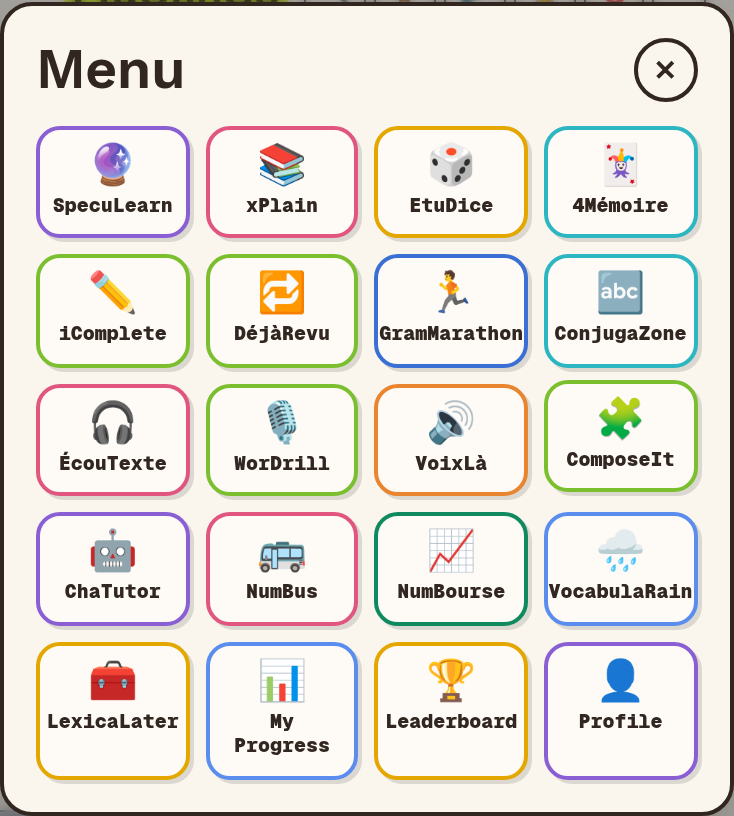
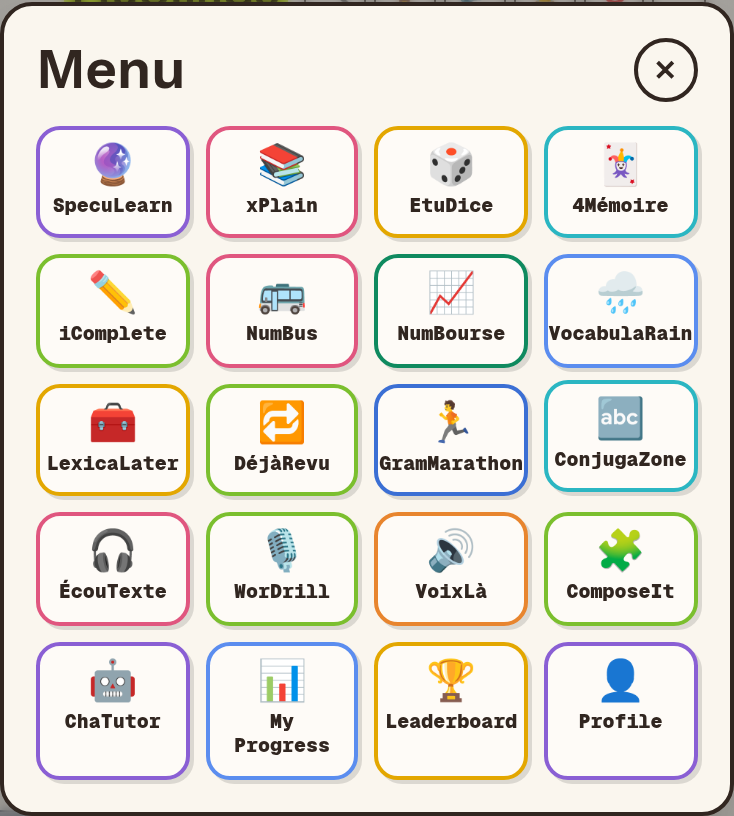
nav: families in Dan's order — Goals · Practice · Play · Review · Skills · User
Dan, 19 Aug: "(Pre-Lesson = Goals), so that means 2a → 2b → 2e → 2c → 2d → 2f."
Play moves up to third, straight after the practice just done; Review and
Skills follow it.

activitiesInFamilyOrder() is now the one way to read the twenty activities in
family order, and the Menu grid uses it, so the grid and any rail cannot drift
apart the way the four hand-kept lists did before 10 Aug.

Claude-Session: https://claude.ai/code/session_01MX3rvBAcFckqMJzJJHU3iB

diff --git a/src/content/activities.ts b/src/content/activities.ts
@@ -51,14 +51,20 @@ export type Family = { key: FamilyKey; name: string; emoji: string; href: string
  *     dice → cards → produce) are now PRACTICE. Same five, same order, a
  *     name that says what you do with them.
  *
- * Order is Dan's 2a–2f: Goals · Practice · Review · Skills · SvPlay · User.
+ * Order is Dan's, 19 Aug — 2a → 2b → 2e → 2c → 2d → 2f, with Pre-Lesson and
+ * Goals confirmed as the same tab:
+ *
+ *   Goals · Practice · SvPlay · Review · Skills · User
+ *
+ * Play sits third, straight after the practice you have just done; the two
+ * heavier families (Review, Skills) follow it.
  */
 export const FAMILIES: Family[] = [
   { key: "goals", name: "FluOlin Goals", emoji: "🎯", href: "/" },
   { key: "practice", name: "FluOlin Practice", emoji: "✏", href: "/activities" },
+  { key: "svplay", name: "FluOlin SvPlay", emoji: "🎮", href: "/games/vocabularain" },
   { key: "review", name: "FluOlin Review", emoji: "🔁", href: "/reviser" },
   { key: "skills", name: "FluOlin Skills", emoji: "💪", href: "/conjugaison" },
-  { key: "svplay", name: "FluOlin SvPlay", emoji: "🎮", href: "/games/vocabularain" },
   { key: "user", name: "FluOlin User", emoji: "👤", href: "/moi" },
 ];
 
@@ -114,6 +120,12 @@ export const ACTIVITIES: Activity[] = [
   { key: "profil", name: "Profile", emoji: "👤", family: "user", href: "/profil", hue: "#8a5fd4", blurb: "Streak, XP, badges, colours." },
 ];
 
+/** Every activity, in FAMILIES order then authored order — what the Menu grid
+ *  and any grouped rail should iterate, so none of them can drift apart. */
+export function activitiesInFamilyOrder(): Activity[] {
+  return FAMILIES.flatMap((f) => ACTIVITIES.filter((a) => a.family === f.key));
+}
+
 /** Everything in one family, in its authored order. */
 export function activitiesIn(family: FamilyKey): Activity[] {
   return ACTIVITIES.filter((a) => a.family === family);
@@ -128,7 +140,7 @@ export function activity(key: string): Activity | undefined {
 /** Only the ones with a gallery/index page, in family order — this is the
  *  flap rail and the HELP grid, and now they cannot disagree. */
 export function navigableActivities(): Activity[] {
-  const order: FamilyKey[] = ["goals", "practice", "review", "skills", "svplay", "user"];
+  const order: FamilyKey[] = ["goals", "practice", "svplay", "review", "skills", "user"];
   return ACTIVITIES.filter((a) => a.href !== null).sort(
     (a, b) => order.indexOf(a.family) - order.indexOf(b.family),
   );

diff --git a/src/components/MenuSplash.tsx b/src/components/MenuSplash.tsx
@@ -11,6 +11,9 @@
  * the answer). The long-form guide still exists at /guide for anyone who
  * wants it.
  *
+ * Tiles run in FAMILIES order — Goals, Practice, Play, Review, Skills, User —
+ * so the grid reads in the same order as the rail.
+ *
  * Exactly twenty tiles, because the registry holds exactly twenty activities
  * — four across by five down on a phone, five across by four down from sm.
  * No group headings: a tile carries its own emoji, name and family colour,
@@ -22,7 +25,7 @@
  * of its twenty would be the thing a learner notices.
  */
 import Link from "next/link";
-import { ACTIVITIES, FAMILIES } from "@/content/activities";
+import { activitiesInFamilyOrder, FAMILIES } from "@/content/activities";
 
 export default function MenuSplash({ onClose }: { onClose: () => void }) {
   const close = () => {
@@ -56,7 +59,7 @@ export default function MenuSplash({ onClose }: { onClose: () => void }) {
         </div>
 
         <ul className="grid grid-cols-4 gap-2 sm:grid-cols-5">
-          {ACTIVITIES.map((a) => {
+          {activitiesInFamilyOrder().map((a) => {
             const family = FAMILIES.find((f) => f.key === a.family);
             return (
               <li key={a.key}>
